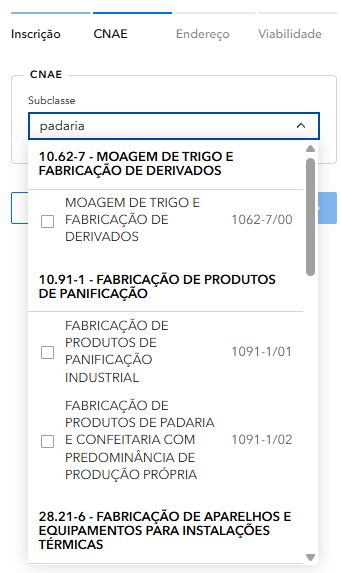
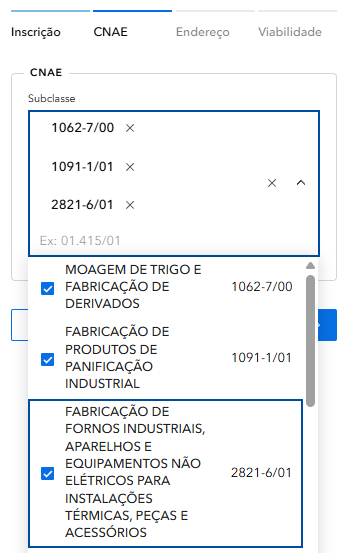
validacao

diff --git a/README.md b/README.md
@@ -183,9 +183,21 @@ O mapa irá centralizar no lote encontrado e exibirá as informações no painel
 
 Após clicar em "Próximo", você verá a classificação da atividade e sua viabilidade.  Vamos escolher um tipo de serviço que pretende-se investigar a viabilidade de implantação de acordo com o zoneamento da cidade
 
+Exemplo: Subclasse - padaria
+
+Para esse exemplo, vamos escolher mais de uma opção porque pretende-se exercer várias atividades dentro do mesmo ramo "padaria"
+
 ![Classificação de Atividades](./img/classificacao-atividades.png)  
 
 *Classificação das atividades*  
+
+### 6⃣ Validação do Endereço
+
+É necessário fazer um "chechin" para validação do endereço, se estiver tudo correto, clica-se em Dados corretos
+
+
+
+![Validacao de Endereco](./img/validacao-endereco.png) 
 
 ### 6⃣ Relatório Gerado  
 
